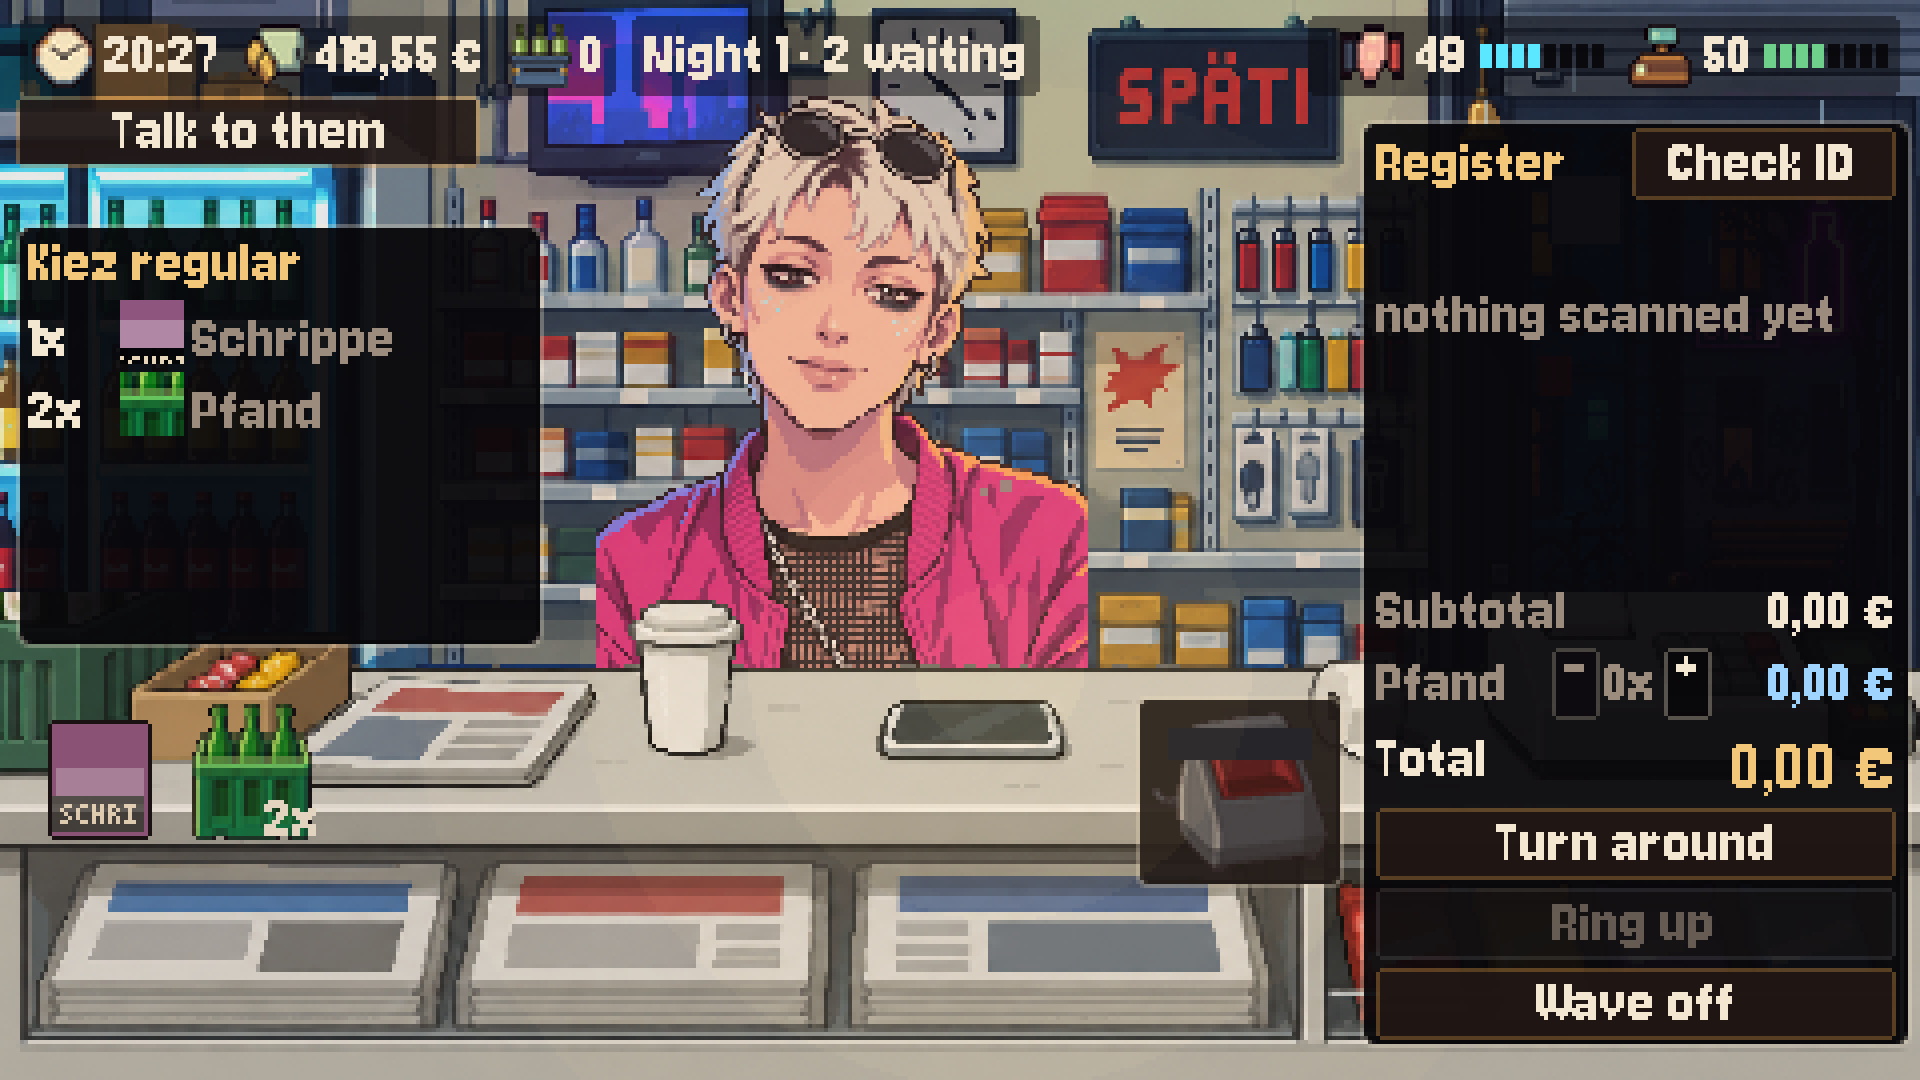
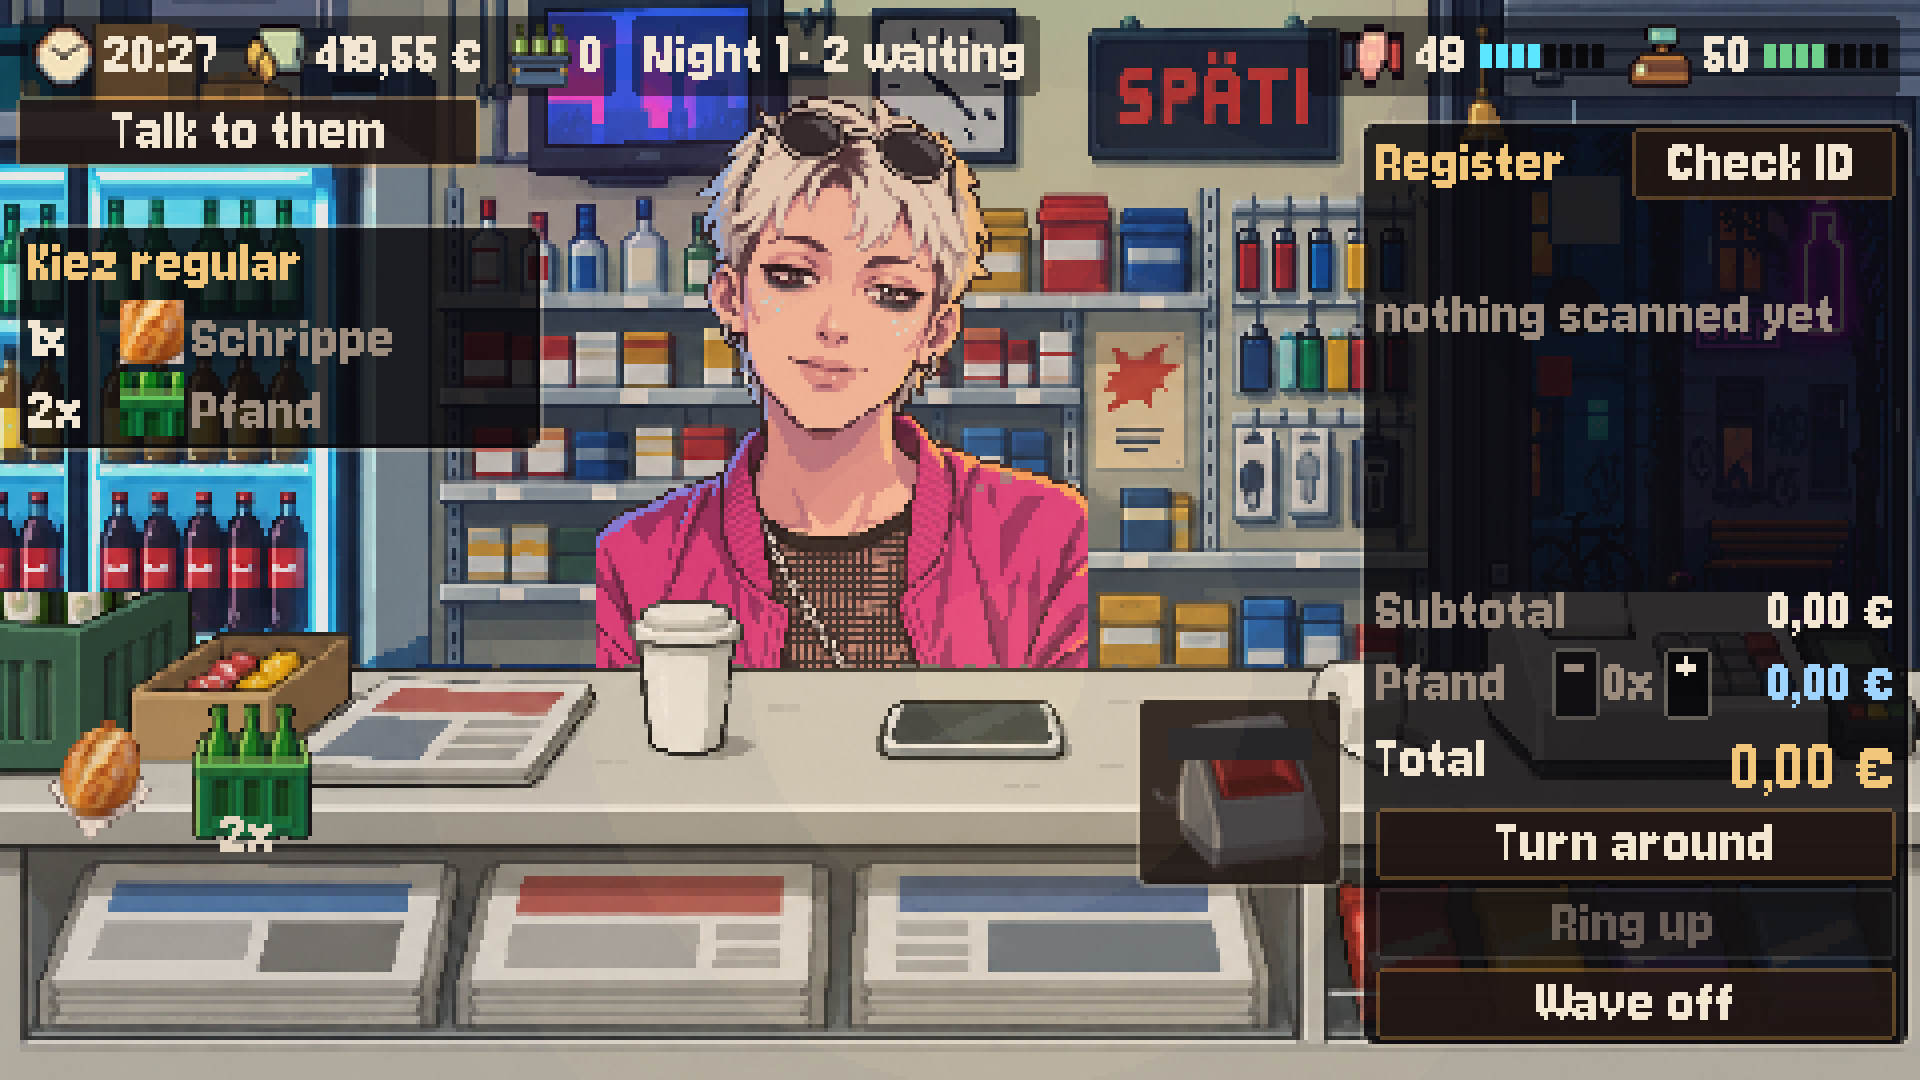
wall: the front row repeats across its pitch — the shelves read as stocked (register 74, wall 72 after round 2)

diff --git a/docs/03-build-log.md b/docs/03-build-log.md
@@ -1259,3 +1259,4 @@ the interesting failures were the ones no test was asking about.
 205 passing tests, and all five were found the same way: by asking the real read-model what the player would
 actually see. Nothing here was found by reading the lanes' reports, which were accurate.
 - **11:30 — first verdicts on the new screens (astra, real playthrough frames):** register view **68** (composition 63 · palette 62 · pixel 76 · character 77 · ui 57 · Berlin 81) — the opaque order card and full-height register panel out-weigh the guest, placeholder Schrippe block, crate reads flat, grey light; tobacco wall **61** (composition 62 · palette 56 · pixel 68 · ui 54 · Berlin 69) — isolated icons on mostly empty shelving (needs dense stock blocks, packs behind the front row), oversized vertical clearance, heavy black price bars (wants pale label holders with dark lettering), several marks weak at pack scale, washed light. A UI-polish fleet takes the code-side items; SKU sprites (15) generating; expression wave 2 nearly done.
+- **11:55 — polish round 2 judged:** register **68 → 74** (character 81, Berlin 85, pixel 79; ui 67), wall **61 → 72** (ui 54 → 75, palette 56 → 71, Berlin 69 → 72). What moved it: one translucent panel ink across order card / register / wall, the order card collapsing to its rows, pale shelf-label rails with dark lettering instead of black bars, stock blocks behind every facing, the crate badge under the sprite, the first real SKU sprites. Then the front row was made to REPEAT across its pitch (`Palette.wall_pitch`, copies drawn beside the button, one hit target per brand) — the shelves now read as stocked. Remaining judge asks are art-side: printed pack headers and warning panels, pouch folds, thinner shelf lips, per-material wear clusters.
